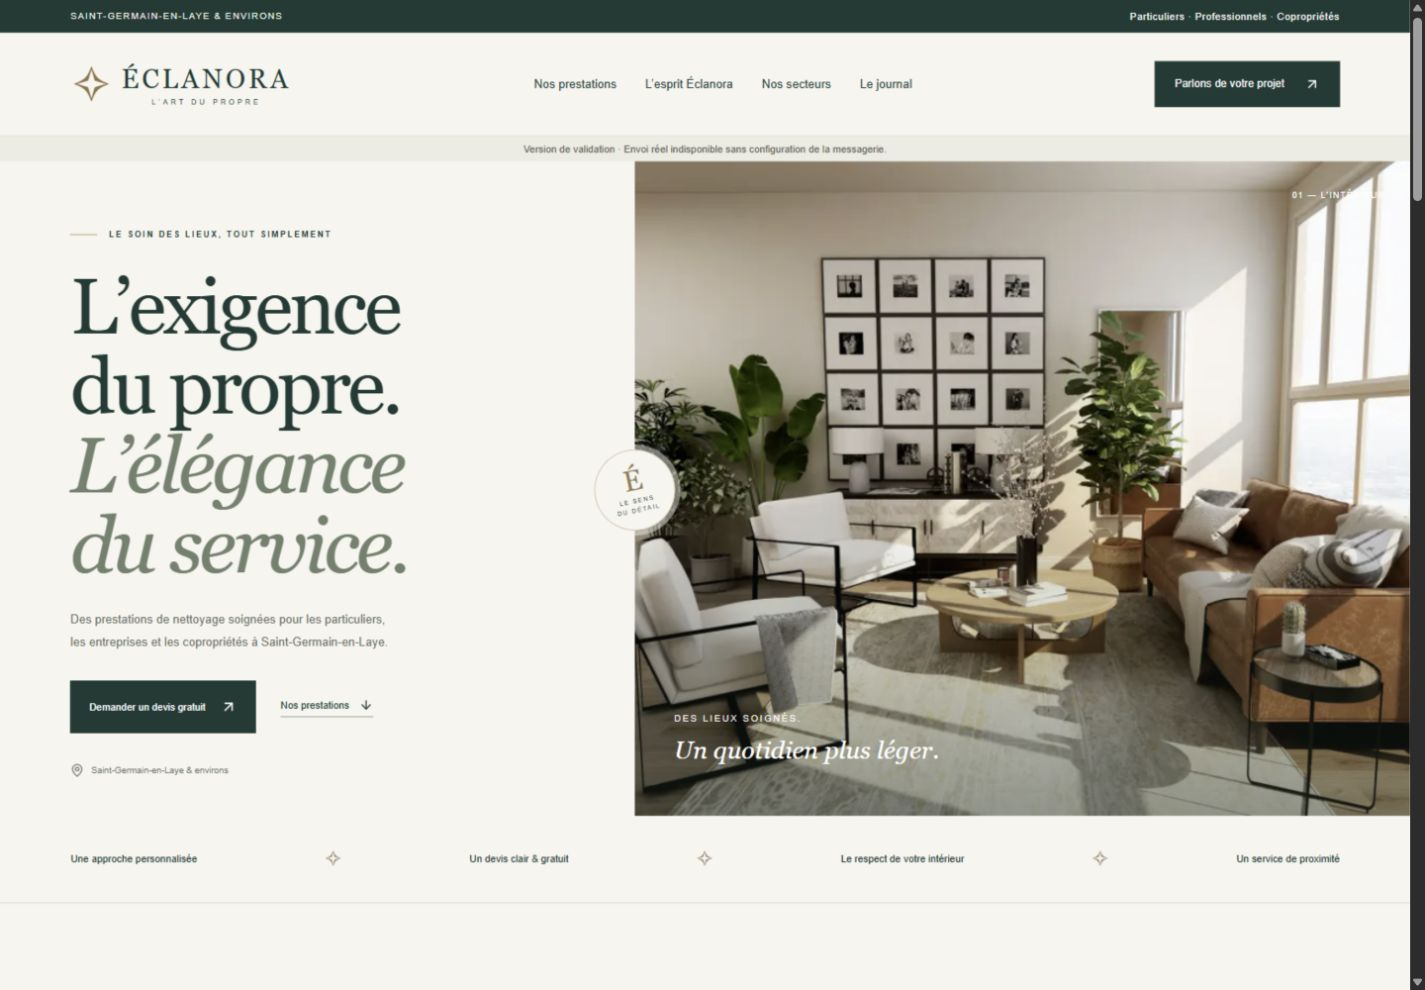
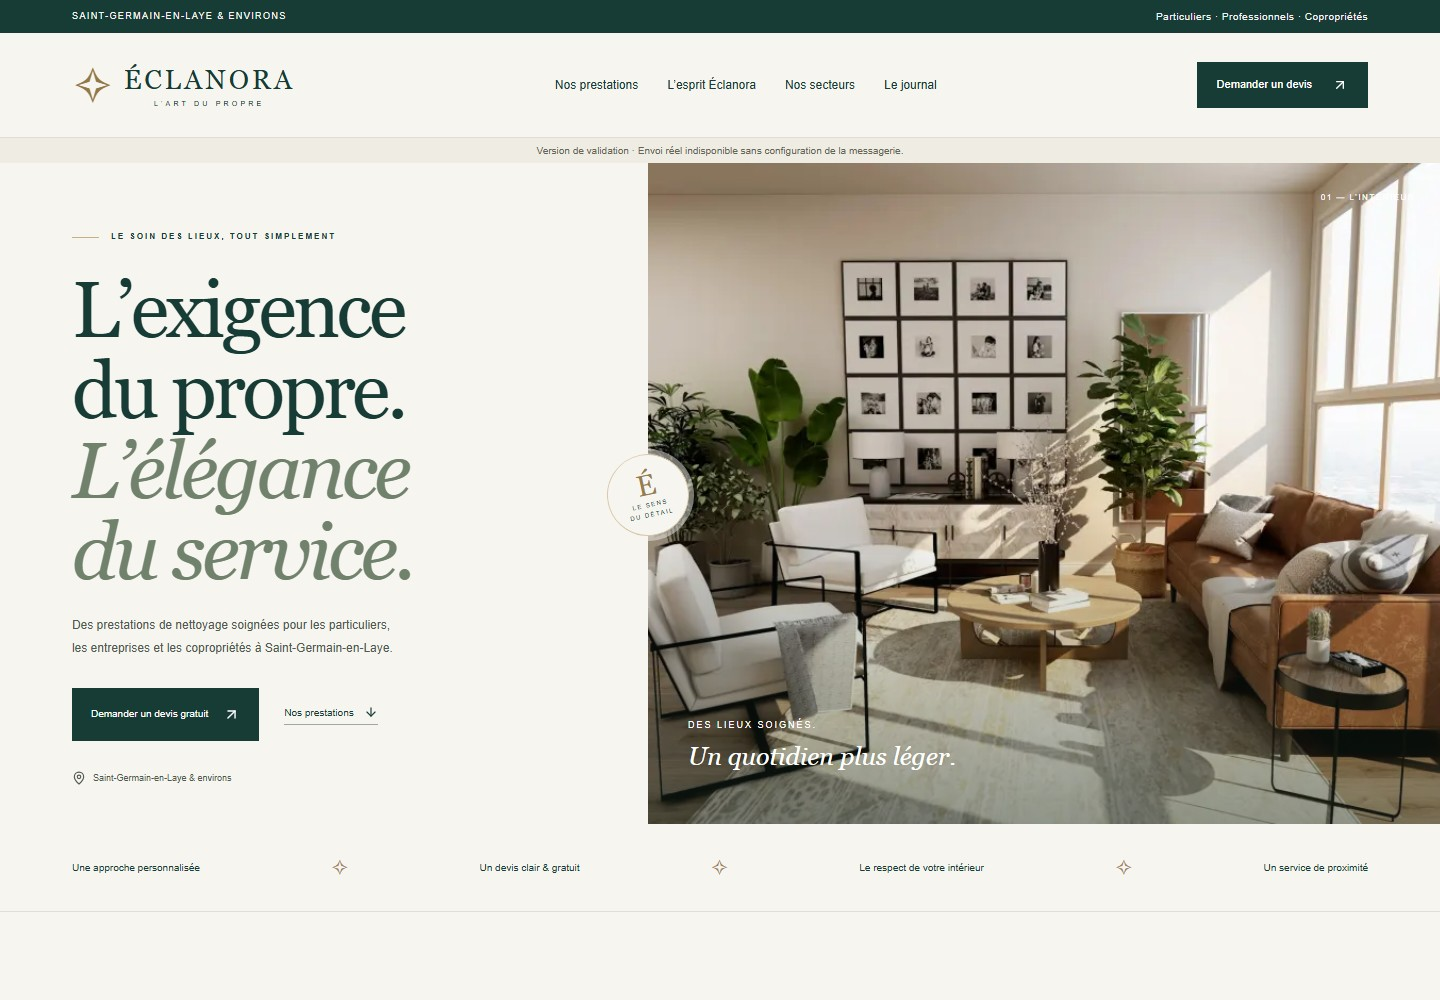
docs: consigner les mesures et actualiser les apercus

diff --git a/TEST-REPORT.md b/TEST-REPORT.md
@@ -1,21 +1,43 @@
-# Vérifications — 2 novembre 2026
+# Rapport de validation — 27 novembre 2026
 
-## Résultats
+## Audit et interventions
 
-- `npm install` : dépendances installées et verrouillées, audit npm au moment de l’installation : zéro vulnérabilité signalée. Ce résultat ne garantit pas l’absence de vulnérabilités futures.
-- `npm run typecheck` : réussi.
-- `npm test` : 5 tests réussis (demande valide, formats/tailles, organisation B2B, séparation particuliers/B2B, garde de publication).
-- `npm run build` : compilation de production réussie ; 31 sorties générées par Next.js, dont 25 pages de contenu.
-- `node scripts/smoke-test.mjs` sur serveur de développement : 25 pages et 25 liens internes vérifiés, un H1, canonical et noindex par page ; robots bloqué ; vraie 404. API : origine étrangère 403, email invalide 400, piège spam 400, taille excessive 413, confirmation explicite sans envoi et limite 429.
-- Même contrôle sur `next start` en préproduction : réussi ; sans SMTP, la demande valide retourne 503 et aucun faux succès.
-- `npm run check:production` : échec ATTENDU avec liste des renseignements manquants et validations non obtenues. Ne pas contourner ces blocages.
+Le dépôt de départ contenait un site Next.js prégénéré, six fiches de prestations, cinq articles, une API de devis et des brouillons juridiques. La structure, l’identité graphique et les contenus existants ont été conservés. Les priorités de l’audit étaient l’envoi des formulaires, les avis de sécurité du framework et les contrôles de publication, puis l’accessibilité, le référencement local et la reproductibilité des tests.
 
-## Vérification dans le navigateur
+| Périmètre | Modifications principales |
+| --- | --- |
+| Parcours | `src/app/[slug]/page.tsx`, `src/components/quote-form.tsx` et `src/components/price-estimator.tsx` ajoutent le contact, le rappel et l’estimation indicative. |
+| Envoi et sécurité | `src/app/api/devis/route.ts`, `src/lib/quote.ts` et `next.config.ts` couvrent validation, limite anti-abus, SMTP, confirmations, HSTS et contrôles de préproduction. |
+| Référencement et configuration | `src/app/layout.tsx`, `src/app/sitemap.ts`, `src/lib/company.ts` et `src/lib/content.ts` ajoutent le catalogue, la page de Saint-Germain-en-Laye et les métadonnées de vérification. |
+| Qualité | `tests/`, `scripts/smoke-test.mjs`, `playwright.config.ts` et `.github/workflows/ci.yml` rendent reproductibles les vérifications des navigateurs, des pages et de l’API. |
+| Exploitation | `README.md`, `DEPLOYMENT.md`, `LEGAL-CHECKLIST.md` et `SEO-CHECKLIST.md` décrivent le déploiement, les données et les décisions en attente. |
 
-Affichage à 1440 × 1000 et 390 × 844. Accueil et prestations examinés sur ordinateur, menu et FAQ mobiles ouverts, champ organisation affiché pour professionnel puis masqué pour particulier, formulaire rempli avec des données synthétiques et confirmation de test constatée. Aucun débordement horizontal constaté sur l’accueil et le devis à 390 px. Captures dans `previews/`.
+## Vérifications
 
-Une différence de normalisation d’origine localhost/127.0.0.1 détectée lors des tests a été corrigée. En production, la validation utilise le domaine `SITE_URL` configuré. La CSP de développement autorise l’évaluation nécessaire au débogueur React ; celle de production ne l’autorise pas.
+- `npm ci` installe 489 paquets à partir du verrou. L’audit associé signale zéro vulnérabilité connue après passage de Next.js à 16.4.6. Trois extensions de la configuration ESLint Next déclarent encore une compatibilité de pair plafonnée à ESLint 9. Le lint est exécuté avec ESLint 10.
+- `npm run lint`, `npm run typecheck` et `npm test` passent. Vitest exécute neuf tests, dont trois scénarios d’envoi SMTP simulé.
+- `npm run build` compile avec Webpack et génère 33 sorties statiques, dont 27 pages de contenu. Turbopack a échoué sur le traitement CSS dans cet environnement Windows.
+- Les contrôles HTTP passent en développement et en préproduction sur 27 pages et 27 liens internes. Ils vérifient les titres et URL canoniques, le noindex, les en-têtes, l’absence de cookie de réponse, la 404 et l’API. Le mode test confirme la validation sans envoi. Une sixième demande atteint la limite `429` même avec un autre e-mail. Le build de préproduction répond `503` sans SMTP.
+- Playwright passe 19 vérifications sur Chromium, Firefox, WebKit, Edge, iPhone et iPad simulés. Les cinq exclusions correspondent à l’envoi simulant l’indisponibilité SMTP, exécuté une seule fois sur Chromium pour le serveur partagé. Aucun tracker, débordement, erreur JavaScript ou échec axe n’est relevé sur les pages parcourues lors du passage final.
+- La CI GitHub Actions du commit applicatif est verte. [Exécution Qualité nº 2](https://github.com/viktoriiayakovchuk2601-lab/eclanora-website/actions/runs/45986465414)
+- `npm run check:production` échoue comme prévu tant que les renseignements et validations d’exploitation sont manquants.
+- Le contrôle ciblé de l’historique Git initial n’a relevé aucun motif courant de clé privée, jeton GitHub, clé d’accès AWS ou mot de passe SMTP. La seule configuration d’environnement suivie est le modèle `.env.example`. Le contrôle repose sur des motifs textuels.
 
-## Limites explicites
+## Mesures Lighthouse
 
-Aucun vrai email métier envoyé faute de coordonnées et d’identifiants SMTP. La livraison SMTP réelle, les rebonds et l’indisponibilité d’un prestataire configuré restent à tester avant ouverture. Pas de score Lighthouse ni de mesure terrain Core Web Vitals réalisés, pas d’audit exhaustif WCAG/RGAA, pas de certification juridique. Anti-abus distribué et exploitation des données à finaliser chez l’hébergeur. Le projet n’est pas publié sur Internet.
+Page d’accueil locale servie par le build de production, Lighthouse 13.6.0 dans Chrome, un passage par profil après optimisation.
+
+| Profil | Performance | Accessibilité | Bonnes pratiques | SEO | LCP | TBT | CLS |
+| --- | ---: | ---: | ---: | ---: | ---: | ---: | ---: |
+| Mobile émulé | 96 | 100 | 100 | 69 | 0,76 s | 217 ms | 0 |
+| Ordinateur | 100 | 100 | 100 | 69 | 0,68 s | 40 ms | 0 |
+
+Le premier passage mobile affichait 94 en performance et 96 en bonnes pratiques. Les images des cartes sont désormais dimensionnées et chargées à la demande. Le chargement de Zod intervient à la soumission et son mode sans compilation dynamique respecte la CSP de production. La règle `is-crawlable` reste en échec à cause du noindex de préproduction. Les mesures sont réalisées en laboratoire. L’INP et les Core Web Vitals terrain restent à mesurer après ouverture.
+
+## Conditions restantes avant ouverture
+
+- Renseigner et valider l’identité de l’EI, l’adresse, le SIRET et l’immatriculation, les coordonnées, le régime de TVA, l’hébergeur, le médiateur et les conditions contractuelles. Le modèle actuel recueille une demande de devis. Valider le processus de vente réel, y compris la rétractation lorsque applicable.
+- Confirmer le tarif et les zones réellement desservies. Maisons-Laffitte et Le Vésinet restent en attente de confirmation. L’offre professionnelle dépend de l’autorisation administrative. La déclaration SAP et l’Avance immédiate disposent de validations distinctes.
+- Mettre en place le domaine HTTPS, un serveur SMTP et une limitation distribuée. Tester la réception réelle dans la boîte métier et chez le client, les rebonds et la procédure de suivi. La CSP actuelle autorise les scripts inline nécessaires au rendu statique de Next.js.
+- Valider les prestataires et lieux de traitement, la durée de conservation et la suppression des demandes. Le site actuel ne charge aucun outil de suivi, carte embarquée ou publicité. Une activation future nécessitant le consentement devra intégrer un gestionnaire opérationnel et ses tests.
+- Vérifier Search Console, Bing Webmaster Tools et la fiche d’établissement après validation des coordonnées et du domaine. Confirmer les droits et crédits photographiques. Un audit humain avec lecteur d’écran complète les contrôles automatisés.
